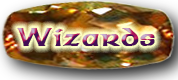
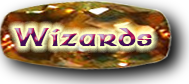
Buttons finally displaying correctly on Home page!

diff --git a/public/main.css b/public/main.css
@@ -30,6 +30,8 @@ label {
 /*Buttons:*/
 
 .viewHome{
+  border: none;
+  background-color: Transparent;
   height: 78px;
   width: 154px;
   background-image: url('./images/Home button.png');
@@ -37,7 +39,9 @@ label {
 }
 
 .viewWizards{
-  height: 80px;
+  border: none;
+  background-color: Transparent;
+  height: 84px;
   width: 198px;
   background-image: url('./images/Wizards button.png');
   background-repeat: no-repeat;
@@ -67,13 +71,13 @@ label {
 /*End Buttons:*/
 
 #fine-print{
-  font-size: 10px;
+  font-size: 8px;
 }
 
 #WizOfCoastStuff{
   position: absolute;
   width: 300px;
-  height: 250px;
+  height: 225px;
   right: 10px;
   bottom: 20px;  
 }
